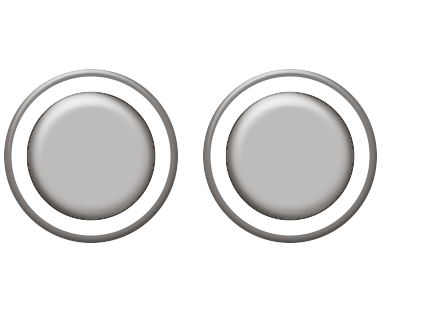
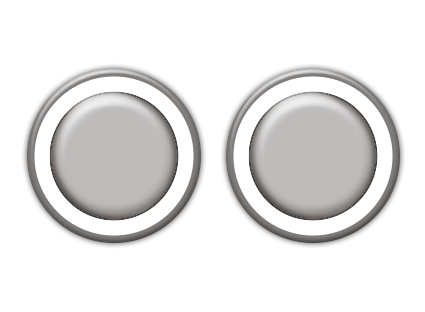
adding and removing controller dom shit

Changed region(s): [[0.0, 0.2019, 0.9482, 0.8077]]

diff --git a/room.css b/room.css
@@ -42,23 +42,95 @@ nav li {
   width: 425px;
 }
 .controller {
-  position: relative;
+  position: absolute;
+  left: 0px;
+  top: 0px;
   height: 312px;
   width: 425px;
 }
+/* Communal Controller - JBG */
+#communal-controller {
+  background: url('controllers/communal-unactive.png');
+}
+#communal-button-1 {
+  height: 34px;
+  left: 179px;
+  position: absolute;
+  top: 51px;
+  width: 34px;
+}
+#communal-button-5 {
+  height: 34px;
+  left: 229px;
+  position: absolute;
+  top: 113px;
+  width: 34px;
+}
+#communal-button-6 {
+  height: 34px;
+  left: 93px;
+  position: absolute;
+  top: 154px;
+  width: 34px;
+}
+#communal-button-1.active, #communal-button-5.active, #communal-button-6.active {
+  background: url('controllers/communal-active-1-5-6.png') no-repeat;
+}
+#communal-button-2 {
+  height: 22px;
+  left: 256px;
+  position: absolute;
+  top: 79px;
+  width: 22px;
+}
+#communal-button-3 {
+  height: 22px;
+  left: 280px;
+  position: absolute;
+  top: 166px;
+  width: 34px;
+}
+#communal-button-4 {
+  height: 22px;
+  left: 177px;
+  position: absolute;
+  top: 132px;
+  width: 22px;
+}
+#communal-button-8 {
+  height: 22px;
+  left: 119px;
+  position: absolute;
+  top: 94px;
+  width: 22px;
+}
+#communal-button-2.active, #communal-button-3.active, #communal-button-4.active, #communal-button-8.active {
+  background: url('controllers/communal-active-2-3-4-8.png') no-repeat;
+}
+#communal-button-7 {
+  height: 67px;
+  left: 162px;
+  position: absolute;
+  top: 186px;
+  width: 66px;
+}
+#communal-button-7.active {
+  background: url('controllers/communal-active-7.png') no-repeat;
+}
+/* Hobo Controller - JBG */
 #hobo-controller {
   background: url('controllers/hobo-unactive.png');
 }
 #hobo-button-1 {
   height: 174px;
-  left: 5px;
+  left: 28px;
   position: absolute;
   top: 69px;
   width: 174px;
 }
 #hobo-button-2 {
   height: 174px;
-  left: 203px;
+  left: 226px;
   position: absolute;
   top: 69px;
   width: 174px;

diff --git a/index.html b/index.html
@@ -8,17 +8,27 @@
   </head>
   <body>
     <nav><ul>
-      <li><button id='hermit'>Hermit Controller</button></li>
       <li><button id='communal'>Communal Controller</button></li>
-      <li><button id='community'>Community of Convenience Controller</button></li>
+      <li><button id='community'>Convenience Controller</button></li>
       <li><button id='hobo'>Hobo Controller</button></li>
-      <li><button id='phalanstere'>Phalanstere Controller</button></li>
-      <li><button id='perma'>Perma Controller</button></li>
+      <li><button id='hermit'>Hermit Controller</button></li>
       <li><button id='bolo'>Bolo Controller</button></li>
       <li><button id='out-of-control'>Out of Control Controller</button></li>
+      <li><button id='safty'>Safty Controller</button></li>
+      <li><button id='phalanstere'>Phalanstere Controller</button></li>
     </ul></nav>
 
     <div id='controllers' class='centered hidden'>
+      <div id='communal-controller' class='controller'>
+        <div id='communal-button-1' class='button'></div>
+        <div id='communal-button-2' class='button'></div>
+        <div id='communal-button-3' class='button'></div>
+        <div id='communal-button-4' class='button'></div>
+        <div id='communal-button-5' class='button'></div>
+        <div id='communal-button-6' class='button'></div>
+        <div id='communal-button-7' class='button'></div>
+        <div id='communal-button-8' class='button'></div>
+      </div>
       <div id='hobo-controller' class='controller'>
         <div id='hobo-button-1' class='button'></div>
         <div id='hobo-button-2' class='button'></div>

diff --git a/controllers.js b/controllers.js
@@ -1,16 +1,15 @@
-var showController = function(controllerId) {
-  $('#controllers .controller').addClass('hidden');
-  $('#' + controllerId + '-controller').removeClass('hidden');
-  $('#controllers').removeClass('hidden');
-}
-
-$(function() {
-  // Menu buttons - JBG
-  $('button').click(function() {
-    $('button').removeClass('active');
-    showController($(this).attr('id'));
-    $(this).addClass('active');
+var controllers = {};
+var init = function() {
+  $('.controller').each(function() {
+    controllers[$(this).attr('id')] = this;
+    $(this).remove();
   });
+};
+
+var showController = function(name) {
+  $('#controllers .controller').remove();
+  $('#x').before(controllers[name + '-controller']);
+  $('#controllers').removeClass('hidden');
 
   // Controller buttons - JBG
   $('.button').each(function() {
@@ -19,6 +18,18 @@ $(function() {
     }).mouseup(function() {
       $(this).removeClass('active');
     });
+  });
+};
+
+$(function() {
+  // Init - JBG
+  init();
+
+  // Menu buttons - JBG
+  $('button').click(function() {
+    $('button').removeClass('active');
+    showController($(this).attr('id'));
+    $(this).addClass('active');
   });
 
   // Close button - JBG
